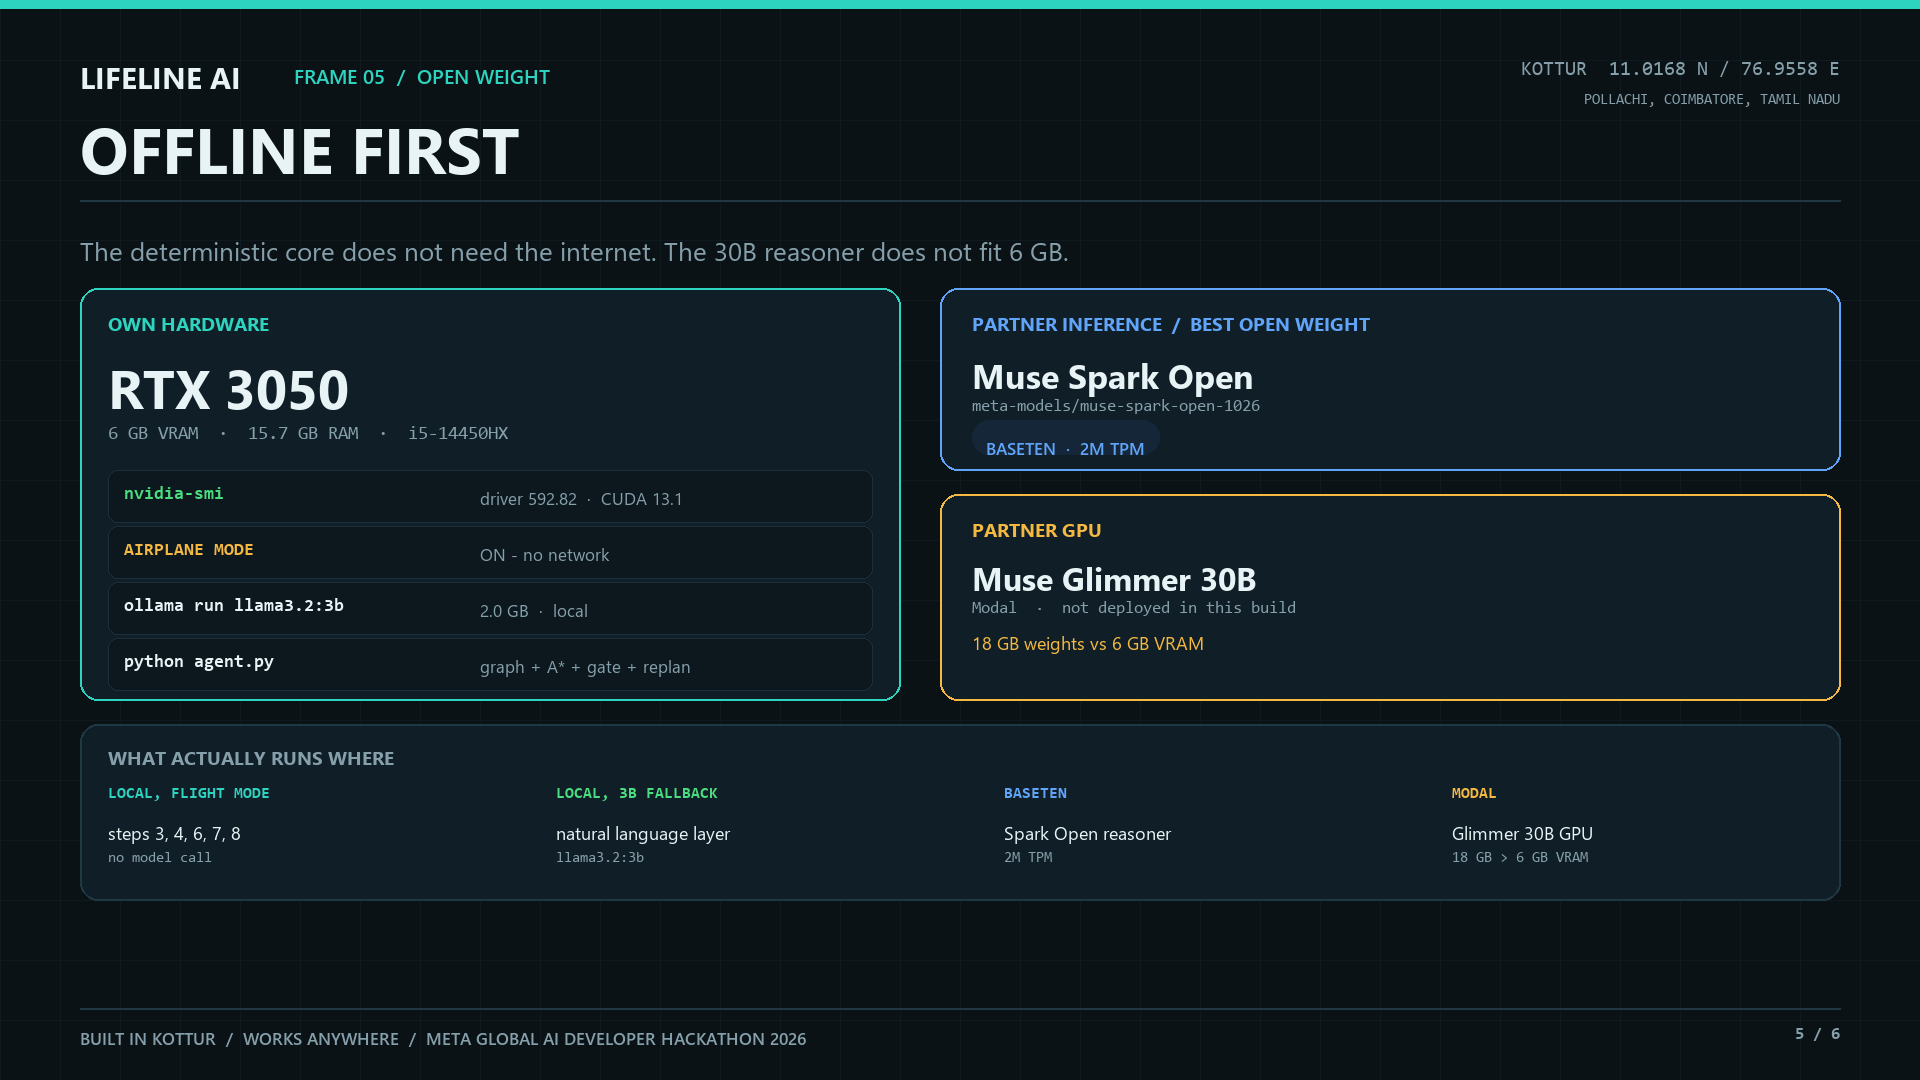
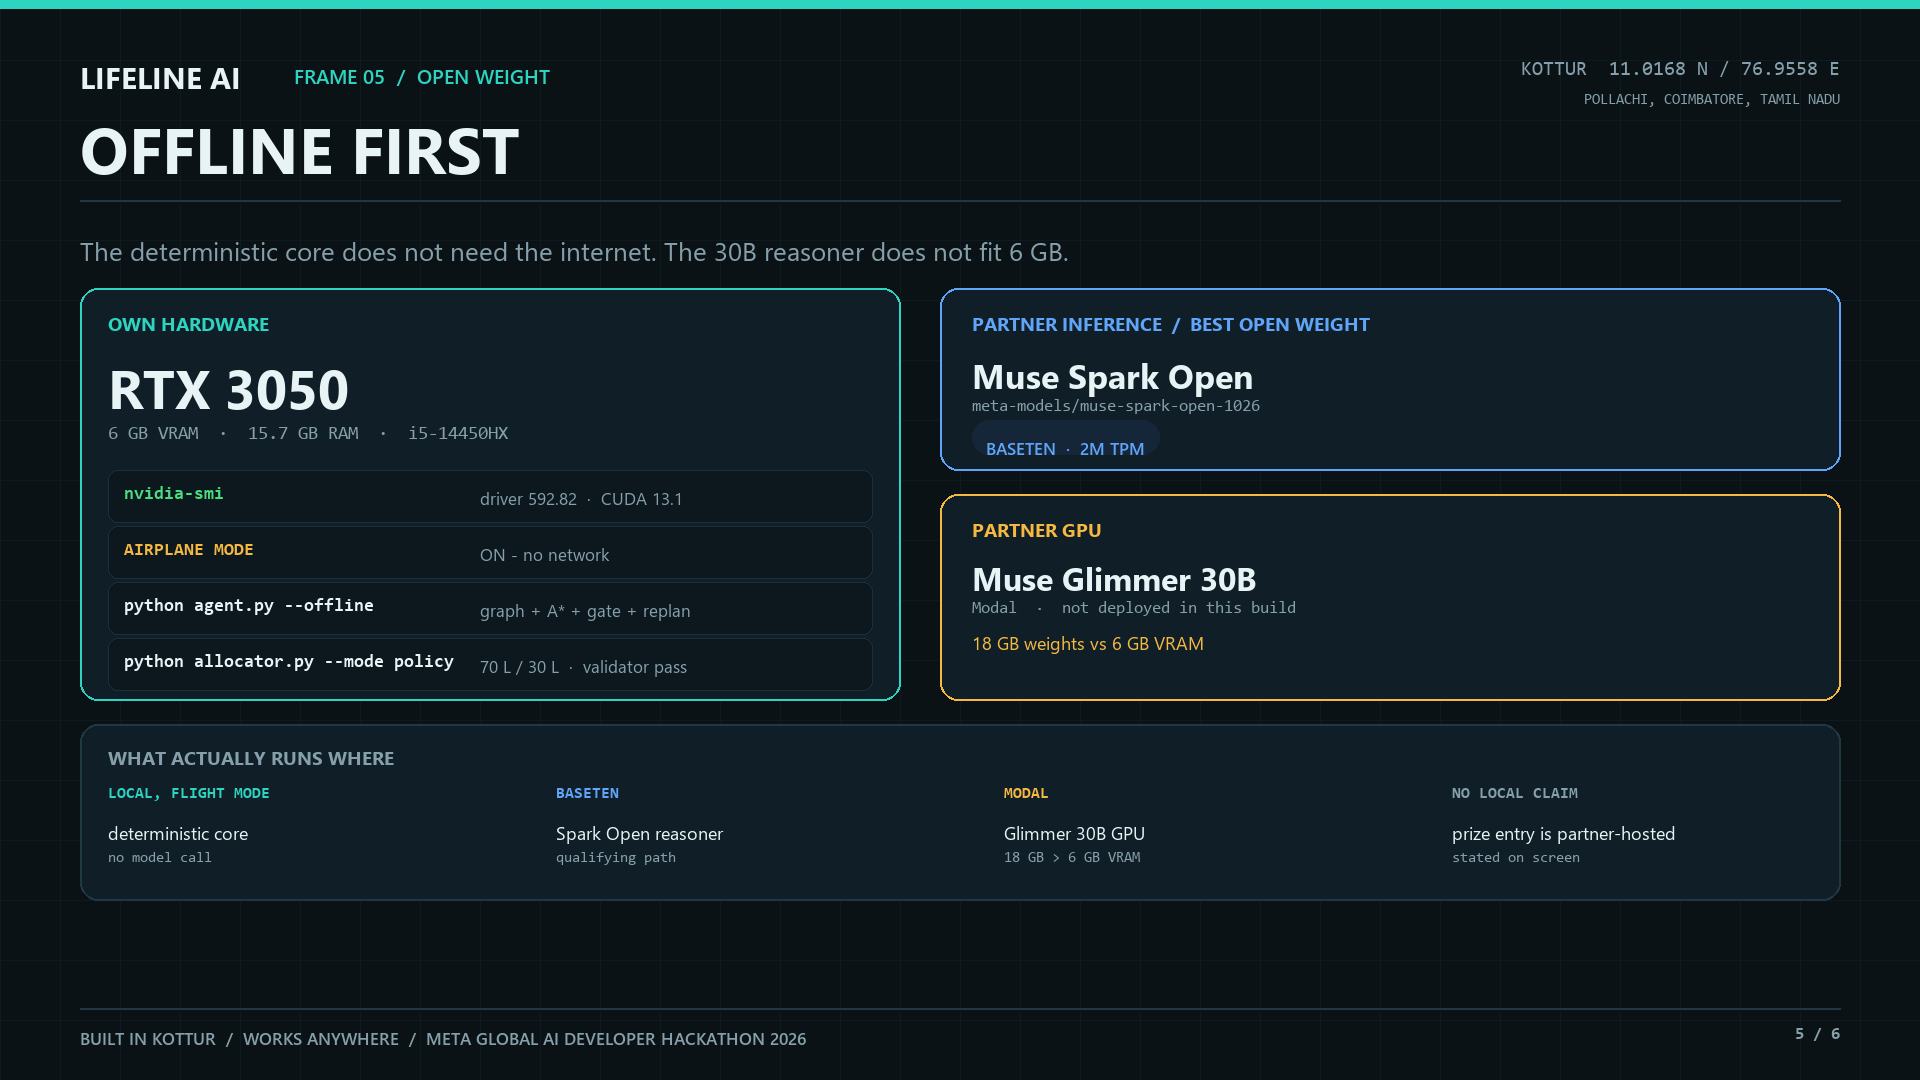
Open Weight: claim only the partner-hosted Spark Open path, drop local 3B from the judged surface

diff --git a/ui/components/OfflineProof3D.tsx b/ui/components/OfflineProof3D.tsx
@@ -12,10 +12,10 @@ const LINES: Record<Mode, [string, string][]> = {
   offline: [
     ["$ ipconfig /all  |  findstr Media", "Media State . . . . . . : Media disconnected"],
     ["$ nvidia-smi --query-gpu=name,memory.total", "NVIDIA GeForce RTX 3050 Laptop GPU, 6144 MiB"],
-    ["$ ollama run llama3.2:3b", ">>> deterministic core loaded - no network calls"],
+    ["$ python agent.py --offline --yes", "8 steps, 0 network calls, 0 API keys read"],
     ["$ python a_star.py", "A* 4.2 km blocked -> 7.8 km found (40.0% saved)"],
-    ["$ python allocator.py --mode policy", "70 L hospital + 30 L pump = 100 L, validator pass"],
-    ["note", "llama3.2:3b proves the core offline. It is NOT the Open Weight entry."],
+    ["$ python allocator.py --mode policy", "70 L heart + 30 L lungs = 100 L, validator pass"],
+    ["note", "the core is offline. no local model is claimed for Open Weight."],
   ],
   online: [
     [
@@ -28,7 +28,7 @@ const LINES: Record<Mode, [string, string][]> = {
     ["$ python capture_sam.py", "9 frames, masks decoded, $0.02"],
     ["$ python capture_voice.py", "Tamil transcript, $0.000539"],
     ["note", "Glimmer is 18 GB. This 6 GB card cannot hold it: partner inference only."],
-    ["status", "no fabricated local weights - the split is stated on screen"],
+    ["status", "one partner-hosted open model, no fabricated local weights"],
   ],
 };
 
@@ -122,11 +122,11 @@ function Holograms({ mode }: { mode: Mode }) {
   return (
     <group>
       {[
-        { pos: [-2.7, 1.9, -1] as [number, number, number], label: "BASEten", detail: "muse-spark-open-1026", colour: COLORS.teal },
+        { pos: [-2.7, 1.9, -1] as [number, number, number], label: "BASETEN", detail: "muse-spark-open-1026 · qualifying", colour: COLORS.teal },
         { pos: [2.8, 1.5, -1.2] as [number, number, number], label: "MODAL", detail: "glimmer · 18 GB · not deployed", colour: COLORS.amber },
-        { pos: [2.6, -0.6, 0.6] as [number, number, number], label: "OLLAMA", detail: "llama3.2:3b · offline proof", colour: COLORS.lung },
+        { pos: [2.6, -0.6, 0.6] as [number, number, number], label: "THIS LAPTOP", detail: "deterministic core · no network", colour: COLORS.lung },
       ].map((holo) => {
-        const active = mode === "online" ? holo.label !== "OLLAMA" : holo.label === "OLLAMA";
+        const active = mode === "online" ? holo.label !== "THIS LAPTOP" : holo.label === "THIS LAPTOP";
         return (
           <group key={holo.label} position={holo.pos}>
             <mesh rotation={[0, 0, 0]}>
@@ -217,15 +217,27 @@ export default function OfflineProof3D() {
           </p>
         </div>
 
-        <div className="rounded-xl border border-amber/25 bg-amber/5 p-4">
-          <div className="mono text-[10px] tracking-[0.18em] text-amber">STATED PLAINLY</div>
-          <p className="mt-1.5 text-[11.5px] leading-relaxed text-ink/80">
-            <span className="mono text-amber">llama3.2:3b</span> does not qualify for the
-            Open Weight prize. It is here to prove the routing and allocation logic runs
-            without a network. The qualifying weights are the partner-hosted Meta open
-            models, and Glimmer's 18 GB does not fit in 6 GB of VRAM — so it is partner
-            inference, not a laptop bluff.
-          </p>
+        <div className="rounded-xl border border-teal/25 bg-teal/5 p-4">
+          <div className="mono text-[10px] tracking-[0.18em] text-teal">WHAT IS CLAIMED, AND WHERE</div>
+          <div className="mt-2 space-y-2">
+            <div className="flex gap-2">
+              <span className="mono shrink-0 pt-0.5 text-[8px] tracking-[0.1em] text-teal">CLAIM</span>
+              <p className="text-[11px] leading-relaxed text-ink/80">
+                The Open Weight entry is{" "}
+                <span className="mono text-teal">muse-spark-open-1026</span>, partner-hosted on
+                Baseten. Those runs are stored verbatim, re-validated locally and counted above.
+              </p>
+            </div>
+            <div className="flex gap-2">
+              <span className="mono shrink-0 pt-0.5 text-[8px] tracking-[0.1em] text-muted">
+                NOT CLAIMED
+              </span>
+              <p className="text-[11px] leading-relaxed text-muted">
+                Any local model as the prize entry. This 6 GB laptop runs the deterministic core
+                only. Glimmer&apos;s 18 GB does not fit, so it is partner inference or nothing.
+              </p>
+            </div>
+          </div>
         </div>
 
         <div

diff --git a/ui/app/page.tsx b/ui/app/page.tsx
@@ -362,7 +362,7 @@ export default function Page() {
       {/* -------------------------------------------------------------- offline */}
       <Section
         meta={SECTIONS[5]}
-        lede="The core — routing, topological order, the 70/30 validator, the ledger — runs on this laptop with the network off. Partner inference is shown for what it is: partner inference."
+        lede="The core — routing, topological order, the 70/30 validator, the ledger — runs on this laptop with the network off. The Open Weight claim is separate and exact: muse-spark-open-1026, partner-hosted on Baseten, with stored runs."
       >
         <OfflineProof3D />
       </Section>

diff --git a/ui/lib/sections.ts b/ui/lib/sections.ts
@@ -56,10 +56,10 @@ export const SECTIONS: SectionMeta[] = [
   {
     id: "offline",
     n: "06",
-    kicker: "OFFLINE PROOF",
-    title: "What runs when the tower is down",
-    note: "Routing and allocation on this laptop with the network switched off.",
-    tools: ["LIFELINE_OFFLINE=1", "6 GB laptop", "no network"],
+    kicker: "OFFLINE + OPEN WEIGHT",
+    title: "The core runs with the wire cut",
+    note: "Deterministic routing and allocation with no network; the Open Weight path is partner-hosted, not local.",
+    tools: ["LIFELINE_OFFLINE=1", "no API key", "Spark Open · Baseten"],
   },
   {
     id: "timeline",

diff --git a/make_frames.py b/make_frames.py
@@ -471,8 +471,8 @@ def frame_offline(town: dict) -> None:
     rows = [
         ("nvidia-smi", "driver 592.82  ·  CUDA 13.1", GREEN),
         ("AIRPLANE MODE", "ON - no network", AMBER),
-        ("ollama run llama3.2:3b", "2.0 GB  ·  local", TEXT),
-        ("python agent.py", "graph + A* + gate + replan", TEXT),
+        ("python agent.py --offline", "graph + A* + gate + replan", TEXT),
+        ("python allocator.py --mode policy", "70 L / 30 L  ·  validator pass", TEXT),
     ]
     y = 470
     for cmd, note, color in rows:
@@ -498,10 +498,10 @@ def frame_offline(town: dict) -> None:
     f.panel([M, 724, W - M, 900], accent=BORDER)
     f.text((M + 28, 744), "WHAT ACTUALLY RUNS WHERE", font(F_BOLD, 19), MUTED)
     cols = [
-        ("LOCAL, FLIGHT MODE", "steps 3, 4, 6, 7, 8", "no model call", TEAL),
-        ("LOCAL, 3B FALLBACK", "natural language layer", "llama3.2:3b", GREEN),
-        ("BASETEN", "Spark Open reasoner", "2M TPM", BLUE),
+        ("LOCAL, FLIGHT MODE", "deterministic core", "no model call", TEAL),
+        ("BASETEN", "Spark Open reasoner", "qualifying path", BLUE),
         ("MODAL", "Glimmer 30B GPU", "18 GB > 6 GB VRAM", AMBER),
+        ("NO LOCAL CLAIM", "prize entry is partner-hosted", "stated on screen", MUTED),
     ]
     x = M + 28
     for head, body, note, color in cols:

diff --git a/README.md b/README.md
@@ -215,22 +215,25 @@ every cumulative total from raw entries.
 
 ## Open-weight track
 
-The bonus asks for Muse Glimmer or Muse Spark Open, on your own hardware **or through partner inference**,
-verified by the infrastructure partner. This repo does both, and is honest about which is which:
+The bonus asks for Muse Glimmer or Muse Spark Open, on your own hardware **or through partner
+inference**. This submission claims exactly one path:
 
-| Path | Model | Where | Why |
+| Claim | Model | Where | Evidence |
 | --- | --- | --- | --- |
-| Partner inference | **Muse Spark Open** (`meta-models/muse-spark-open-1026`) | Baseten, 2M TPM | 816B MoE / 42B active - cannot run on a laptop |
-| Partner GPU | **Muse Glimmer 30B** | Modal (`abinivesh-1203`) | 18 GB of weights vs 6 GB VRAM |
-| Own hardware | `llama3.2:3b` via Ollama | RTX 3050, airplane mode | proves the **deterministic core** runs with no network |
+| **Qualifying** | **Muse Spark Open** (`meta-models/muse-spark-open-1026`) | Baseten, 2M TPM | `artifacts/openweight_proof.json` - verbatim responses, latency, token usage, locally re-validated |
+| **Not claimed** | Muse Glimmer 30B | Modal | 18 GB of weights vs 6 GB VRAM; not deployed in this build |
 
-The measurement that decided this: this laptop has **6 GB VRAM and 15.7 GB RAM**. Muse Glimmer's smallest
-published Ollama build is **18 GB**. It does not fit, and pretending otherwise would break on stage.
+No local model is claimed for the prize. This laptop has **6 GB VRAM and 15.7 GB RAM**, and Muse
+Glimmer's smallest published build is **18 GB**. It does not fit, so it is never presented as a
+laptop result - partner inference or nothing.
 
-So the offline claim is scoped to what is true: steps 3, 4, 6, 7 and 8 - the graph, the route, the ledger,
-the gate, the replan - run with the network cable out. A 3B local model is the natural-language fallback,
-not the eligibility path. Eligibility rests on Spark Open through Baseten and Glimmer on Modal, both
-partner-verified.
+The offline property is separate from the prize and scoped to what is true: steps 3, 4, 6, 7 and 8
+- the graph, the route, the ledger, the gate, the replan - run with the network cable out. That is
+resilience. It is not an Open Weight entry, and the page says so on screen.
+
+> A 3B local model was used during development as a natural-language sanity check only. It is not
+> part of the submitted entry, is not shown as an Open Weight result, and does not qualify.
+
 
 ## Safety and anti-disqualification
 
@@ -251,7 +254,7 @@ partner-verified.
 | SAM 3.1 | 20 | $1.50 | $30.00 | flood extent across 20 frames |
 | Muse Voice Transcribe | 50 | $0.60 | $30.00 | 50 Tamil field reports |
 | Muse Spark | 40 | $0.50 | $20.00 | coding + creative prompts |
-| Spark Open / Glimmer / Ollama / Muse Code | - | $0 | $0.00 | partner + local inference |
+| Spark Open / Glimmer / Muse Code | - | $0 | $0.00 | partner inference |
 | **Total** | **280** | | **$150.00** | |
 
 Alerts fire at **80% ($120)** and **95% ($142.50)**; a **$20 reserve** is tracked separately so the demo
@@ -287,17 +290,16 @@ pip install -r requirements.txt
 python allocator.py --mode wonder --log-credit
 ```
 
-### Offline proof (Best Open Weight / resilience)
+### Offline proof (resilience, not the prize entry)
 
 ```powershell
 nvidia-smi                                  # RTX 3050 6 GB
 $env:LIFELINE_OFFLINE = "1"                 # no network calls
-ollama run llama3.2:3b "Kottur bridge blocked, 100 L diesel, 70 L hospital, 30 L pump"
 python agent.py --yes --mode policy         # graph + A* + allocator + gate + replan
 ```
 
 Then turn on airplane mode and run it again. Screenshot `nvidia-smi`, the airplane-mode icon, and the
-run - that is the offline artefact.
+run - that is the offline artefact. No model is downloaded and no Open Weight claim is made here.
 
 ### Image generation note (India)
 
